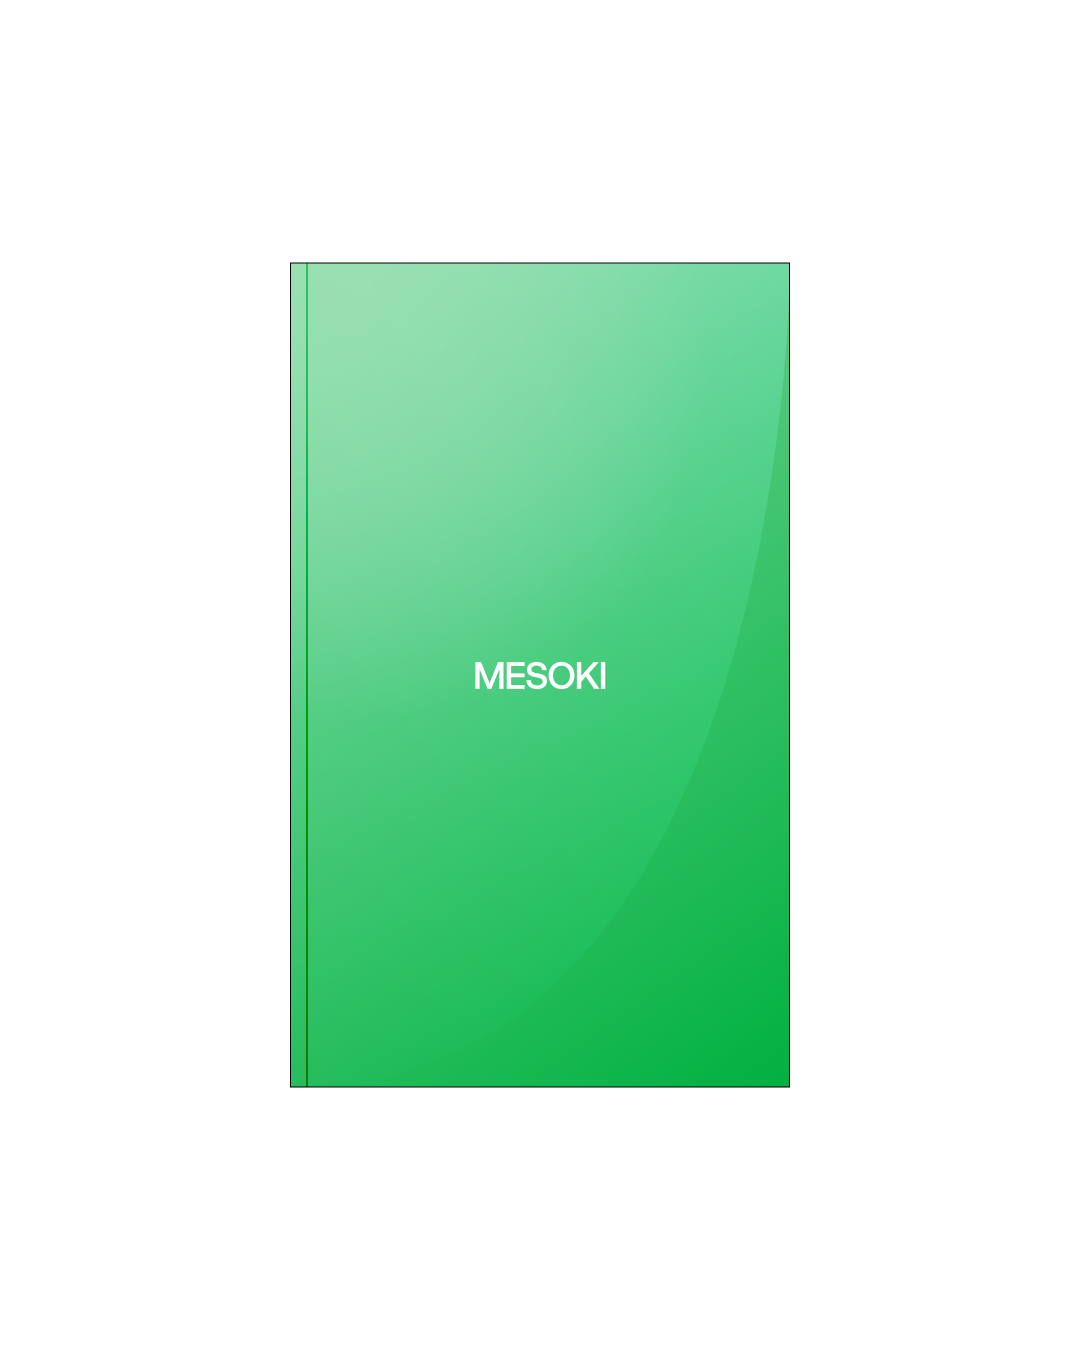
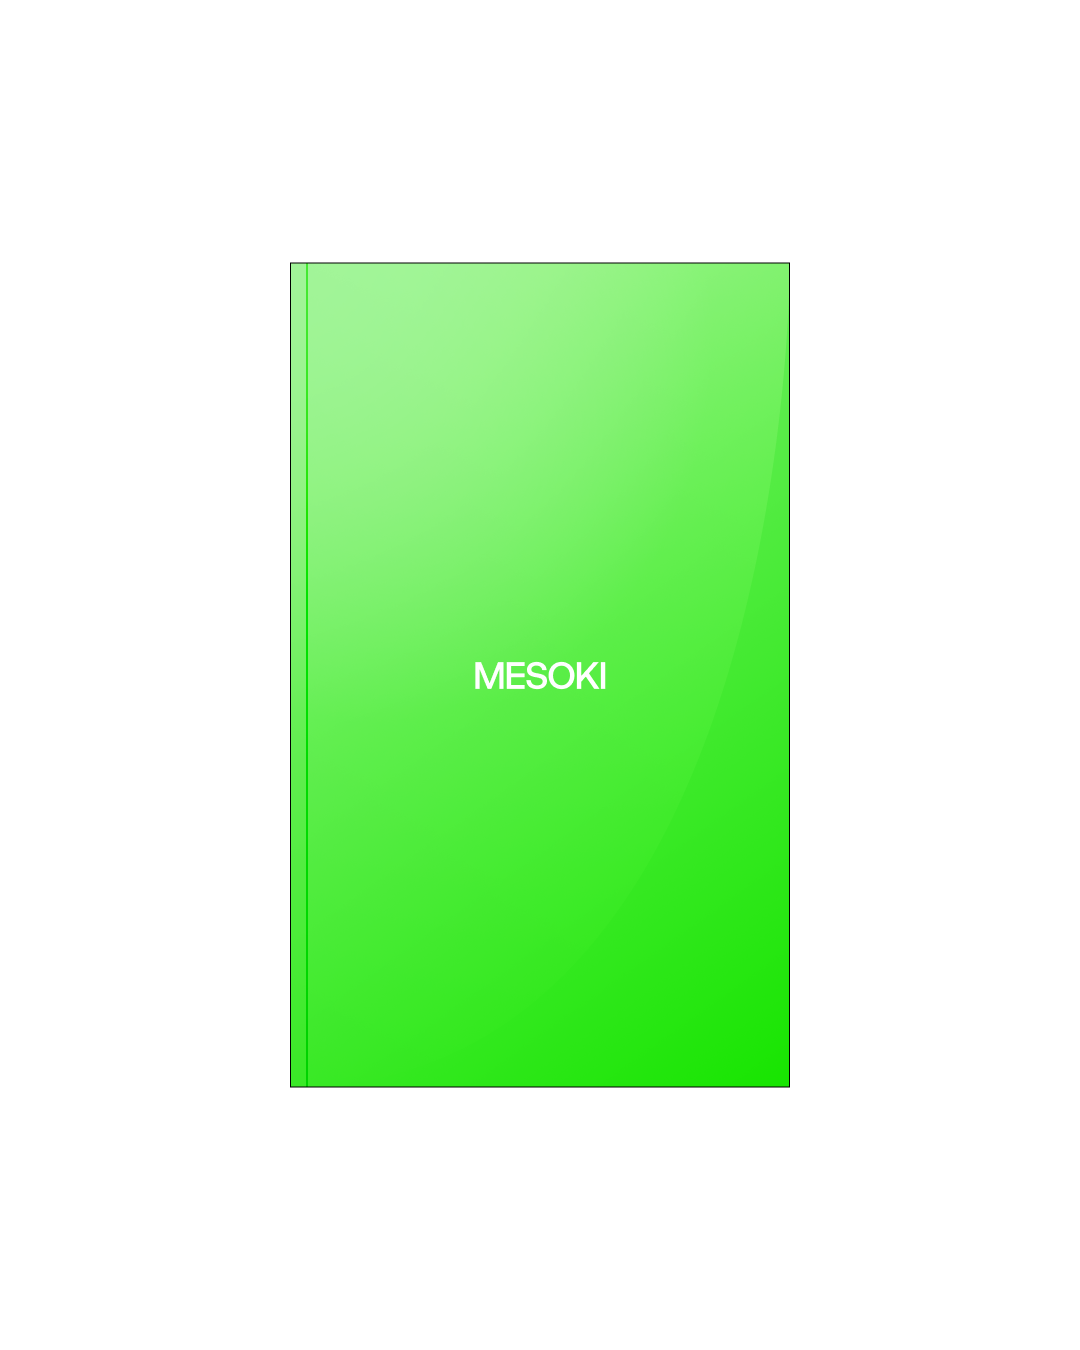
upd colors

Changed region(s): [[0.2444, 0.1867, 0.7333, 0.8089]]

diff --git a/css/style.css b/css/style.css
@@ -244,10 +244,10 @@
     --color-black: #000;
     --color-white: #fff;
     --color-brand-yellow: #FEDD00;
-    --color-brand-blue: #009ACE;
+    --color-brand-blue: #0044FF;
     --color-brand-orange: #FF6A00;
-    --color-brand-green: #00B140;
-    --color-brand-red: #E4002B;
+    --color-brand-green: #17E500;
+    --color-brand-red: #FF0026;
     --color-brand-purple: #A000FF;
     --color-brand-pink: #FF00A0;
     --background_primary: var(--color-white);
